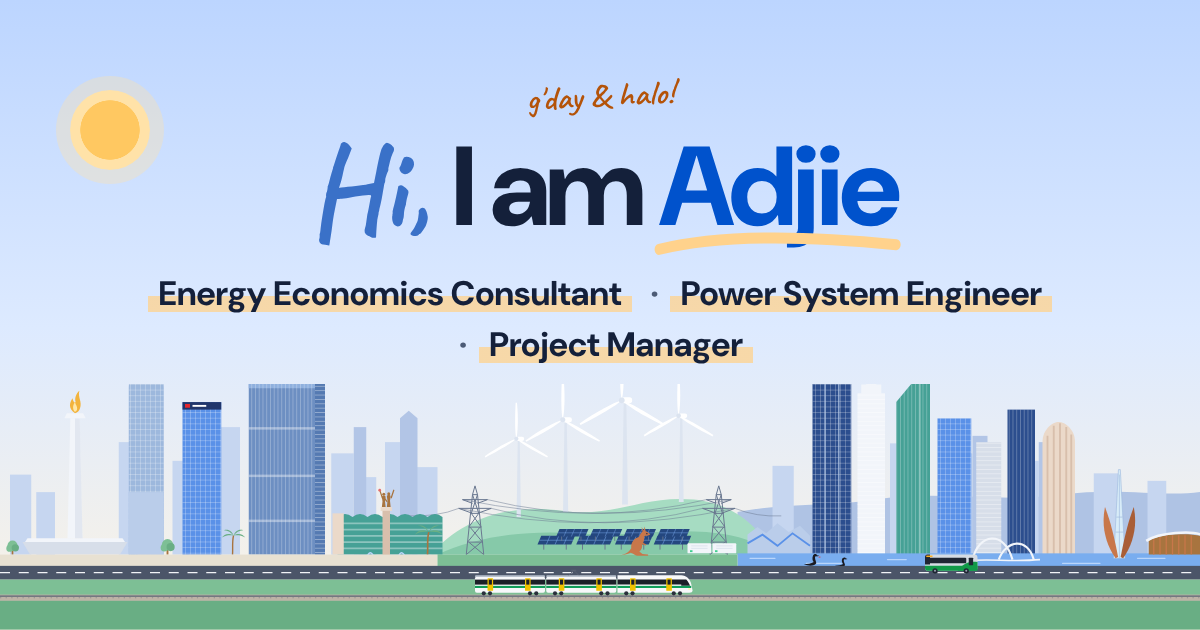
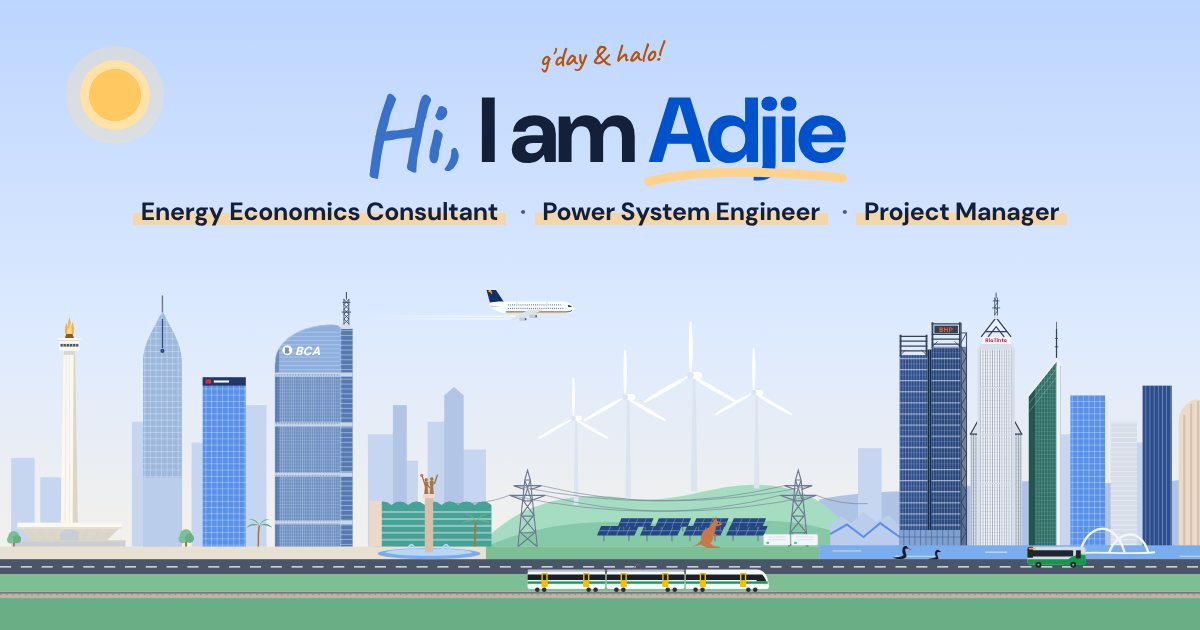
Draw the landmarks as they really are: Monas, Menara BCA, BHP Tower, Central Park, Palace Tower
Monas gets its flared cawan, fluted shaft, observation deck and gold flame.
Menara BCA gets the curved crown, louvred plant floors, east slice and lattice
mast. Brookfield Place's BHP Tower gets its twin slabs, ladder crowns, sign and
braced side frame; Central Park its pinstripes, braced setbacks, Rio Tinto band
and steel crown; the Palace Tower its green face, wedge top and mast. Each has
its own day and night colours. Shorter meta descriptions, a static check script,
and social images that show the crowns.

Claude-Session: https://claude.ai/code/session_01SutMWBYRtzb3hH5KejaEP3

diff --git a/index.html b/index.html
@@ -4,7 +4,7 @@
   <meta charset="utf-8">
   <meta name="viewport" content="width=device-width, initial-scale=1, viewport-fit=cover">
   <title>Adjie Brotosukmono: Energy Economics Consultant and Power System Engineer in Perth</title>
-  <meta name="description" content="Hi, I am Adjie Brotosukmono, an Indonesian energy economics consultant and power system engineer at Mott MacDonald in Perth, Western Australia. Read my story, my blog, and try the free tools I build.">
+  <meta name="description" content="Hi, I am Adjie Brotosukmono, an Indonesian energy economics consultant and power system engineer at Mott MacDonald in Perth. My story, my blog and free tools.">
   <meta name="author" content="Adjie Brotosukmono">
   <meta name="robots" content="index, follow, max-image-preview:large, max-snippet:-1">
   <link rel="canonical" href="https://www.adjiebrotots.com/">
@@ -73,6 +73,11 @@
       --mullion: rgba(255, 255, 255, .38);
       --lit: #FFD28C; --lit-on: 0; --star-on: 0; --sun-on: 1;
       --blade: #FFFFFF; --blade-2: #DCE4F0; --panel: #24477F; --panel-2: #7EAEF0; --pylon: #6A7890;
+      --mon: #FBF8F1; --mon-2: #DCD6C8; --mon-3: #C9CDD6; --mon-win: #4A5568; --cup: #8A5A24;
+      --bca-band: #C9D7EC; --bca-side: #4A6BA0;
+      --bhp: #2E4F8A; --bhp-2: #27467C; --bhp-slot: #172A4E; --bhp-band: rgba(222, 233, 250, .62); --bhp-lobby: #8FB0DE; --steel: #33415B; --bhp-sign: #F26B21;
+      --cp: #F3F5F9; --cp-2: #D8DEE8; --cp-pin: rgba(64, 84, 112, .42); --rio: #E4002B;
+      --pal: #2F6B64; --pal-2: #24564F; --pal-line: rgba(190, 236, 226, .35); --pal-clad: #EEF1F5;
       --shadow: 4px 4px 0 var(--line);
       --shadow-hover: 7px 7px 0 var(--line);
     }
@@ -96,6 +101,11 @@
         --mullion: rgba(141, 187, 255, .12);
         --lit-on: 1; --star-on: 1; --sun-on: 0;
         --blade: #C9D4E6; --blade-2: #8E9BB3; --panel: #18305A; --panel-2: #3A5F9A; --pylon: #6E7B96;
+        --mon: #D9DEE8; --mon-2: #A9B1C2; --mon-3: #39445C; --mon-win: #FFD28C; --cup: #6A4520;
+        --bca-band: #344C78; --bca-side: #1A2B4B;
+        --bhp: #1B2E55; --bhp-2: #172849; --bhp-slot: #0C162B; --bhp-band: rgba(141, 187, 255, .22); --bhp-lobby: #FFD28C; --steel: #5B6A86; --bhp-sign: #FF7A2E;
+        --cp: #3A4762; --cp-2: #2D384F; --cp-pin: rgba(10, 16, 30, .5); --rio: #FF4D6A;
+        --pal: #173B39; --pal-2: #122F2D; --pal-line: rgba(141, 220, 200, .16); --pal-clad: #46526B;
       }
     }
     :root[data-theme="dark"] {
@@ -116,6 +126,11 @@
       --mullion: rgba(141, 187, 255, .12);
       --lit-on: 1; --star-on: 1; --sun-on: 0;
       --blade: #C9D4E6; --blade-2: #8E9BB3; --panel: #18305A; --panel-2: #3A5F9A; --pylon: #6E7B96;
+      --mon: #D9DEE8; --mon-2: #A9B1C2; --mon-3: #39445C; --mon-win: #FFD28C; --cup: #6A4520;
+      --bca-band: #344C78; --bca-side: #1A2B4B;
+      --bhp: #1B2E55; --bhp-2: #172849; --bhp-slot: #0C162B; --bhp-band: rgba(141, 187, 255, .22); --bhp-lobby: #FFD28C; --steel: #5B6A86; --bhp-sign: #FF7A2E;
+      --cp: #3A4762; --cp-2: #2D384F; --cp-pin: rgba(10, 16, 30, .5); --rio: #FF4D6A;
+      --pal: #173B39; --pal-2: #122F2D; --pal-line: rgba(141, 220, 200, .16); --pal-clad: #46526B;
     }
 
     *, *::before, *::after { box-sizing: border-box; }
@@ -344,6 +359,10 @@
     .jet { transform-box: fill-box; transform-origin: 50% 100%; animation: jet 1.6s ease-in-out infinite alternate; }
     .jet:nth-of-type(2) { animation-delay: -.5s; } .jet:nth-of-type(3) { animation-delay: -1s; }
     @keyframes jet { from { transform: scaleY(.75); } to { transform: scaleY(1.08); } }
+    .f-mon { fill: var(--mon); } .f-mon2 { fill: var(--mon-2); } .f-mon3 { fill: var(--mon-3); }
+    .f-bhp { fill: var(--bhp); } .f-bhp2 { fill: var(--bhp-2); } .f-cp { fill: var(--cp); } .f-cp2 { fill: var(--cp-2); } .f-pal { fill: var(--pal); } .f-pal2 { fill: var(--pal-2); }
+    .s-steel { fill: none; stroke: var(--steel); stroke-linecap: square; }
+    .flame-glow { opacity: calc(var(--lit-on) * .55); }
     .blink { animation: blink 1.6s steps(1) infinite; opacity: var(--lit-on); }
     @keyframes blink { 50% { fill: transparent; } }
 
@@ -539,7 +558,7 @@
 
     <div class="scene-wrap" id="sceneWrap">
       <svg class="scene" viewBox="0 110 1920 490" preserveAspectRatio="xMidYMax slice" role="img" aria-labelledby="sceneTitle">
-        <title id="sceneTitle">Flat illustration of Jakarta, with Monas, Wisma 46, Menara BCA and the Selamat Datang monument, then wind and solar farms, then Perth, with Brookfield Place, Central Park, the Bell Tower, Elizabeth Quay Bridge and Optus Stadium. A Singapore Airlines A380 flies overhead while a Transperth C-series train and a Transperth bus pass below.</title>
+        <title id="sceneTitle">Flat illustration of Jakarta, with Monas, Wisma 46, Menara BCA and the Selamat Datang monument, then wind and solar farms, then Perth, with the BHP Tower at Brookfield Place, Central Park (the Rio Tinto tower), the Palace Tower, the Bell Tower, Elizabeth Quay Bridge and Optus Stadium. A Singapore Airlines A380 flies overhead while a Transperth C-series train and a Transperth bus pass below.</title>
         <defs>
           <pattern id="mullV" width="6" height="8" patternUnits="userSpaceOnUse"><rect x="0" y="0" width="1" height="8" class="f-mull"/></pattern>
           <pattern id="mullG" width="8" height="9" patternUnits="userSpaceOnUse"><rect x="0" y="0" width="1" height="9" class="f-mull"/><rect x="0" y="0" width="8" height="1" class="f-mull"/></pattern>
@@ -566,6 +585,15 @@
           <g id="panel"><path class="s-pylon" d="M10 0 V-10 M46 0 V-14"/><path class="f-panel" d="M0 -8 L54 -8 L60 -22 L6 -22 Z"/><path d="M14 -8 L20 -22 M28 -8 L34 -22 M42 -8 L48 -22 M3 -15 L57 -15" stroke="var(--panel-2)" stroke-width=".8" fill="none"/></g>
           <g id="tree"><rect x="-1.5" y="-10" width="3" height="10" class="f-bronze"/><circle cy="-16" r="9" class="f-grass"/><circle cx="-5" cy="-11" r="6" class="f-grass"/><circle cx="5" cy="-12" r="6.5" class="f-grass2"/></g>
           <g id="palm"><path d="M0 0 C 1 -12 -1 -24 2 -36" stroke="var(--bronze)" stroke-width="2.6" fill="none"/><path class="f-grass2" d="M2 -36 c -10 -6 -18 -2 -22 4 c 8 -5 15 -5 22 -4z M2 -36 c 10 -6 18 -2 22 4 c -8 -5 -15 -5 -22 -4z M2 -36 c -4 -10 -12 -12 -18 -10 c 8 0 13 4 18 10z M2 -36 c 4 -10 12 -12 18 -10 c -8 0 -13 4 -18 10z"/></g>
+          <pattern id="bcaV" width="3.2" height="4.6" patternUnits="userSpaceOnUse"><rect width=".7" height="4.6" class="f-mull"/><rect width="3.2" height=".45" class="f-mull"/></pattern>
+          <pattern id="bcaLouvre" width="4" height="5" patternUnits="userSpaceOnUse"><rect x="1" y="1.4" width="2" height="2.2" fill="var(--bca-side)" opacity=".55"/></pattern>
+          <pattern id="bhpG" width="4" height="16" patternUnits="userSpaceOnUse"><rect width=".8" height="16" class="f-mull"/><rect y="0" width="4" height="1.7" fill="var(--bhp-band)"/><rect y="8" width="4" height=".5" class="f-mull"/></pattern>
+          <pattern id="cpPin" width="3.4" height="5" patternUnits="userSpaceOnUse"><rect x="1.1" width="1.2" height="5" fill="var(--cp-pin)"/><rect y="4.4" width="3.4" height=".6" fill="var(--cp-pin)" opacity=".5"/></pattern>
+          <pattern id="palG" width="4" height="5.5" patternUnits="userSpaceOnUse"><rect width=".8" height="5.5" fill="var(--pal-line)"/><rect width="4" height=".5" fill="var(--pal-line)"/></pattern>
+          <pattern id="lights3" width="16" height="18" patternUnits="userSpaceOnUse"><rect x="1" y="2" width="2.4" height="3" class="f-lit"/><rect x="9" y="9" width="2.4" height="3" class="f-lit"/><rect x="5" y="14" width="2.4" height="3" class="f-lit"/><rect x="13" y="3" width="2.4" height="3" class="f-lit"/></pattern>
+          <clipPath id="clipBca"><path d="M396 480 V216 C 396 187 424 166 463 161 C 479 159 488 160 490 164 V480 Z"/></clipPath>
+          <clipPath id="clipPal"><path d="M1482 480 V262 L1522 212 L1528 219 V480 Z"/></clipPath>
+          <radialGradient id="flameGlow"><stop offset="0" stop-color="#FFC861" stop-opacity=".9"/><stop offset="1" stop-color="#FFC861" stop-opacity="0"/></radialGradient>
         </defs>
 
         <!-- Far: haze of both cities and the Darling Range -->
@@ -626,15 +654,28 @@
         </g>
 
         <!-- ═══ Jakarta ═══ -->
-        <!-- Monas -->
-        <g data-label="Monas, Jakarta's golden flame">
-          <path class="f-grey" d="M48 480 L192 480 L204 460 L36 460 Z"/>
-          <path class="f-white" d="M40 460 L200 460 L196 454 L44 454 Z"/>
-          <path class="f-white" d="M108 454 L132 454 L127.5 262 L112.5 262 Z"/>
-          <path class="f-grey" d="M120 454 L132 454 L127.5 262 L120 262 Z" opacity=".6"/>
-          <path class="f-white" d="M103 262 L137 262 L133 254 L107 254 Z"/>
-          <path class="f-flame" d="M120 254 C 108 246 112 236 116 230 C 117 236 120 238 121 236 C 119 230 122 222 127 218 C 124 228 132 236 128 246 C 127 250 124 253 120 254 Z"/>
-          <path d="M120 252 C 115 247 117 240 120 236 C 121 241 125 244 123 249 Z" fill="#FFE7A8"/>
+        <!-- Monas: the cawan (bowl) on its plinth, the tapering shaft, the observation deck and the gold flame -->
+        <g data-label="Monas, Jakarta's golden flame" transform="translate(100 480) scale(1.12) translate(-100 -480)">
+          <circle class="flame-glow" cx="100" cy="196" r="22" fill="url(#flameGlow)"/>
+          <rect x="28" y="472" width="144" height="8" class="f-mon3"/>
+          <rect x="28" y="472" width="144" height="1.4" class="f-mon2"/>
+          <path class="f-mon2" d="M52 472 L148 472 L164 456.5 L36 456.5 Z"/>
+          <path d="M58 472 L44 456.5 M70 472 L60 456.5 M82 472 L77 456.5 M94 472 L93 456.5 M106 472 L107 456.5 M118 472 L123 456.5 M130 472 L140 456.5 M142 472 L156 456.5" stroke="var(--mon-3)" stroke-width=".7" opacity=".8"/>
+          <path d="M88 472 V464 a12 6 0 0 1 24 0 V472 Z" class="f-mon3"/>
+          <rect x="33" y="449" width="134" height="7.5" class="f-mon"/>
+          <rect x="33" y="455" width="134" height="1.5" class="f-mon2"/>
+          <path class="f-mon" d="M89 449 L111 449 L107.6 233 L92.4 233 Z"/>
+          <path class="f-mon2" d="M104.2 449 L111 449 L107.6 233 L105.4 233 Z"/>
+          <path d="M94.6 449 L95.8 233 M100 449 V233" stroke="var(--mon-2)" stroke-width=".6" opacity=".9"/>
+          <rect x="93" y="228" width="14" height="5" class="f-mon2"/>
+          <rect x="87" y="215" width="26" height="13" class="f-mon"/>
+          <rect x="88.5" y="219.2" width="23" height="3.4" fill="var(--mon-win)"/>
+          <path d="M92 219.2 v3.4 M96 219.2 v3.4 M100 219.2 v3.4 M104 219.2 v3.4 M108 219.2 v3.4" stroke="var(--mon)" stroke-width=".8"/>
+          <rect x="85.5" y="211.5" width="29" height="3.6" class="f-mon"/>
+          <rect x="85.5" y="214.2" width="29" height="1" class="f-mon2"/>
+          <path d="M94.2 211.5 L105.8 211.5 L104 206.5 L96 206.5 Z" fill="var(--cup)"/>
+          <path class="f-flame" d="M94.6 206.5 C 93.6 200 94.8 195.6 96 191.6 C 96.9 194.4 97.5 196.4 98.5 197.6 C 97.9 192.4 99 187.8 100 184.4 C 101 188.2 102.4 192.2 101.9 197.4 C 102.9 195.8 103.6 193.4 104 190.8 C 105.6 195.2 106.5 200.4 105.4 206.5 Z"/>
+          <path d="M97.2 206 C 96.6 202 97.2 199.6 98 198.2 C 98.8 200.4 99.6 201.4 100 202 C 99.8 198.4 100.6 195 101.2 193 C 102.4 196.6 103.2 200.6 102.6 206 Z" fill="#FFE7A8" opacity=".85"/>
         </g>
         <!-- Wisma 46 -->
         <g data-label="Wisma 46, the fountain-pen tower">
@@ -652,18 +693,32 @@
           <rect x="292" y="236" width="62" height="12" fill="#21366B"/><rect x="296" y="239" width="8" height="6" fill="#E3262E"/><path d="M308 242 h22" stroke="#fff" stroke-width="3"/>
           <rect x="292" y="250" width="62" height="228" fill="url(#lights)" class="lit"/>
         </g>
-        <!-- Menara BCA -->
+        <!-- Menara BCA: curved glass crown, BCA logo, louvred plant floors, the slimmer east slice and its lattice mast -->
         <g data-label="Menara BCA, home of my banking chapter">
-          <path class="f-bca" d="M398 480 V202 C 398 178 426 160 462 155 C 486 152 500 156 504 166 V480 Z"/>
-          <path class="f-bcatop" d="M398 214 V202 C 398 178 426 160 462 155 C 486 152 500 156 504 166 V214 Z"/>
-          <path fill="url(#mullV)" d="M398 480 V202 C 398 178 426 160 462 155 C 486 152 500 156 504 166 V480 Z"/>
-          <rect x="504" y="164" width="16" height="316" class="f-bca2"/>
-          <rect x="504" y="164" width="16" height="316" fill="url(#mullH)"/>
-          <rect x="398" y="276" width="106" height="4" fill="var(--mullion)"/><rect x="398" y="352" width="106" height="4" fill="var(--mullion)"/><rect x="398" y="424" width="106" height="4" fill="var(--mullion)"/>
-          <path d="M511 164 V124 M515 164 V132 M509 150 h8 M509 140 h8" stroke="var(--pylon)" stroke-width="1.6"/>
-          <circle cx="418" cy="194" r="6" fill="#fff"/><path d="M415 191 h5 a2.6 2.6 0 0 1 0 5.2 h-5 z" fill="var(--g-bca)"/>
-          <text x="428" y="200" font-family="DM Sans, sans-serif" font-weight="800" font-style="italic" font-size="17" fill="#fff" letter-spacing=".5">BCA</text>
-          <rect x="398" y="220" width="106" height="258" fill="url(#lights)" class="lit"/>
+          <path class="f-bca" d="M396 480 V216 C 396 187 424 166 463 161 C 479 159 488 160 490 164 V480 Z"/>
+          <g clip-path="url(#clipBca)">
+            <rect x="396" y="150" width="94" height="80" class="f-bcatop"/>
+            <path d="M396 171 H490 M396 177 H490 M396 183 H490 M396 189 H490 M396 195 H490 M396 201 H490 M396 207 H490 M396 213 H490 M396 219 H490 M396 225 H490" stroke="var(--mullion)" stroke-width=".9"/>
+            <rect x="396" y="230" width="94" height="250" fill="url(#bcaV)"/>
+            <path d="M396 480 V216 C 396 200 398 191 402 184 V480 Z" fill="var(--bca-side)" opacity=".55"/>
+            <rect x="396" y="229" width="94" height="6" fill="var(--bca-band)"/><rect x="396" y="229" width="94" height="6" fill="url(#bcaLouvre)"/>
+            <rect x="396" y="301" width="94" height="6" fill="var(--bca-band)"/><rect x="396" y="301" width="94" height="6" fill="url(#bcaLouvre)"/>
+            <rect x="396" y="373" width="94" height="6" fill="var(--bca-band)"/><rect x="396" y="373" width="94" height="6" fill="url(#bcaLouvre)"/>
+            <rect x="396" y="442" width="94" height="6" fill="var(--bca-band)"/><rect x="396" y="442" width="94" height="6" fill="url(#bcaLouvre)"/>
+            <rect x="396" y="236" width="94" height="204" fill="url(#lights3)" class="lit"/>
+          </g>
+          <path d="M396 216 C 396 187 424 166 463 161 C 479 159 488 160 490 164" fill="none" stroke="var(--mullion)" stroke-width="1.6"/>
+          <rect x="490" y="166" width="18" height="314" class="f-bca2"/>
+          <rect x="490" y="166" width="18" height="314" fill="url(#mullH)"/>
+          <rect x="490" y="166" width="1.6" height="314" fill="var(--mullion)"/>
+          <rect x="490" y="229" width="18" height="6" fill="var(--bca-band)"/><rect x="490" y="301" width="18" height="6" fill="var(--bca-band)"/><rect x="490" y="373" width="18" height="6" fill="var(--bca-band)"/><rect x="490" y="442" width="18" height="6" fill="var(--bca-band)"/>
+          <rect x="492" y="159" width="14" height="7" fill="var(--grey-b)"/>
+          <path class="s-steel" stroke-width="1.2" d="M495.5 159 V124 M502.5 159 V124 M495.5 159 L502.5 152 L495.5 145 L502.5 138 L495.5 131 L502.5 124 M502.5 159 L495.5 152 L502.5 145 L495.5 138 L502.5 131 L495.5 124 M493 142 H505 M494 128 H504"/>
+          <path d="M499 124 V113" stroke="var(--steel)" stroke-width="1.4"/>
+          <circle class="blink" cx="499" cy="113" r="1.6" fill="#FF5A5A"/>
+          <circle cx="414" cy="197" r="7.2" fill="#fff"/>
+          <path d="M410.6 193 h4.4 a2.4 2.4 0 0 1 0 4.4 h-1.6 h2.2 a2.4 2.4 0 0 1 0 4.4 h-5 z" fill="var(--g-bca)"/>
+          <text x="425" y="203.6" font-family="DM Sans, sans-serif" font-weight="800" font-style="italic" font-size="17" fill="#fff" letter-spacing=".4">BCA</text>
         </g>
         <!-- Hotel Indonesia Kempinski and Bundaran HI -->
         <g data-label="Hotel Indonesia Kempinski">
@@ -679,39 +734,81 @@
           <path class="f-pale2" d="M1196 480 V448 L1212 436 L1226 446 L1244 430 L1262 444 L1280 434 L1296 450 V480 Z"/>
           <path d="M1196 462 L1220 448 L1244 466 L1268 446 L1296 466" stroke="var(--g-blue)" stroke-width="3" fill="none"/>
         </g>
-        <g data-label="Brookfield Place">
-          <rect x="1300" y="194" width="62" height="286" class="f-dark"/>
-          <rect x="1300" y="194" width="62" height="286" fill="url(#mullG)"/>
-          <path d="M1302 194 V162 M1360 194 V162 M1300 164 H1362" stroke="var(--g-dark)" stroke-width="5"/>
-          <path d="M1320 194 V480 M1342 194 V480" stroke="var(--g-pale-2)" stroke-width="2.4" opacity=".7"/>
-          <rect x="1300" y="210" width="62" height="268" fill="url(#lights)" class="lit"/>
+        <!-- BHP Tower, Brookfield Place: twin glass slabs split by a slot, an open steel ladder crown on each, the BHP sign, and the braced side frame -->
+        <g data-label="BHP Tower at Brookfield Place">
+          <rect x="1296" y="204" width="40" height="276" class="f-bhp"/>
+          <rect x="1342" y="192" width="42" height="288" class="f-bhp2"/>
+          <rect x="1336" y="196" width="6" height="284" fill="var(--bhp-slot)"/>
+          <path d="M1339 196 V480" stroke="var(--bhp-band)" stroke-width=".7"/>
+          <rect x="1296" y="204" width="40" height="252" fill="url(#bhpG)"/>
+          <rect x="1342" y="192" width="42" height="264" fill="url(#bhpG)"/>
+          <rect x="1296" y="456" width="88" height="24" fill="var(--bhp-lobby)" opacity=".85"/>
+          <path d="M1302 456 V480 M1310 456 V480 M1318 456 V480 M1326 456 V480 M1334 456 V480 M1342 456 V480 M1350 456 V480 M1358 456 V480 M1366 456 V480 M1374 456 V480 M1296 466 H1384" stroke="var(--bhp-2)" stroke-width=".9" opacity=".7"/>
+          <rect x="1296" y="214" width="40" height="240" fill="url(#lights3)" class="lit"/>
+          <rect x="1342" y="202" width="42" height="252" fill="url(#lights3)" class="lit"/>
+          <path class="s-steel" stroke-width="2.6" d="M1297.3 204 V176 M1334.7 204 V176 M1343.3 192 V158 M1382.7 192 V158"/>
+          <path class="s-steel" stroke-width="1.8" d="M1297 177 H1335 M1297 184 H1335 M1297 191 H1335 M1297 198 H1335 M1343 159 H1383 M1343 174 H1383 M1343 181 H1383 M1343 188 H1383"/>
+          <path class="s-steel" stroke-width="1.2" d="M1297 204 L1304 197 M1335 204 L1328 197 M1343 192 L1350 185 M1383 192 L1376 185"/>
+          <rect x="1346" y="161.5" width="34" height="11" fill="var(--steel)"/>
+          <text x="1363" y="170.6" text-anchor="middle" font-family="DM Sans, sans-serif" font-weight="800" font-size="9.4" fill="var(--bhp-sign)" letter-spacing=".6">BHP</text>
+          <rect x="1384" y="192" width="9" height="288" fill="var(--bhp-slot)" opacity=".55"/>
+          <path class="s-steel" stroke-width="1.3" d="M1384.6 158 V480 M1392.4 172 V480 M1384.6 192 L1392.4 206 L1384.6 220 L1392.4 234 L1384.6 248 L1392.4 262 L1384.6 276 L1392.4 290 L1384.6 304 L1392.4 318 L1384.6 332 L1392.4 346 L1384.6 360 L1392.4 374 L1384.6 388 L1392.4 402 L1384.6 416 L1392.4 430 L1384.6 444 L1392.4 458 L1384.6 472 M1384.6 172 L1392.4 172 L1384.6 186"/>
         </g>
-        <g data-label="Central Park, Perth's tallest">
-          <path class="f-white" d="M1372 480 V222 H1378 V208 H1386 V196 H1402 V208 H1410 V222 H1416 V480 Z"/>
-          <path fill="url(#mullH)" d="M1372 480 V222 H1416 V480 Z"/>
-          <path d="M1394 196 V142" stroke="var(--pylon)" stroke-width="2.4"/><path d="M1391 172 h6 M1391 160 h6" stroke="var(--pylon)" stroke-width="1.4"/>
-          <rect x="1372" y="230" width="44" height="248" fill="url(#lights2)" class="lit"/>
+        <!-- Central Park, the Rio Tinto tower: pinstriped white shaft, braced setbacks, chamfered crown with the Rio Tinto band, open steel crown and mast -->
+        <g data-label="Central Park, the Rio Tinto tower and Perth's tallest">
+          <rect x="1398" y="318" width="74" height="162" class="f-cp2"/>
+          <rect x="1398" y="318" width="74" height="162" fill="url(#cpPin)"/>
+          <path class="f-cp2" d="M1398 318 L1408 300 V318 Z M1472 318 L1462 300 V318 Z"/>
+          <path class="s-steel" stroke-width="1.8" d="M1398 318 L1408 300 M1472 318 L1462 300 M1398 318 H1408 M1462 318 H1472"/>
+          <rect x="1408" y="196" width="54" height="284" class="f-cp"/>
+          <rect x="1408" y="196" width="54" height="284" fill="url(#cpPin)"/>
+          <rect x="1408" y="196" width="4" height="284" class="f-cp2"/>
+          <rect x="1458" y="196" width="4" height="284" class="f-cp2"/>
+          <rect x="1440" y="196" width="22" height="284" fill="var(--cp-2)" opacity=".35"/>
+          <rect x="1408" y="250" width="54" height="1.6" class="f-cp2"/><rect x="1408" y="318" width="54" height="1.6" class="f-cp2"/><rect x="1408" y="388" width="54" height="1.6" class="f-cp2"/>
+          <rect x="1413" y="206" width="44" height="270" fill="url(#lights3)" class="lit"/>
+          <path class="f-cp2" d="M1408 196 L1414 188 L1456 188 L1462 196 Z"/>
+          <rect x="1414" y="177" width="42" height="11" class="f-cp"/>
+          <text x="1435" y="185.4" text-anchor="middle" font-family="DM Sans, sans-serif" font-weight="800" font-size="7.4" fill="var(--rio)" letter-spacing=".1">RioTinto</text>
+          <rect x="1420" y="170" width="30" height="7" class="f-cp2"/>
+          <path d="M1414 177 L1435 150 L1456 177 Z" fill="var(--cp)" opacity=".55"/>
+          <path class="s-steel" stroke-width="1.8" d="M1414 177 L1435 150 L1456 177 M1424 177 L1435 163 L1446 177 M1420 170 H1450"/>
+          <rect x="1431.5" y="146" width="7" height="6" class="f-cp2"/>
+          <path class="s-steel" stroke-width="1.1" d="M1433 146 V122 M1437 146 V122 M1433 146 L1437 140 L1433 134 L1437 128 L1433 122 M1430 136 H1440 M1431 126 H1439"/>
+          <path d="M1435 122 V114" stroke="var(--steel)" stroke-width="1.2"/>
+          <circle class="blink" cx="1435" cy="114" r="1.6" fill="#FF5A5A"/>
         </g>
-        <g data-label="108 St Georges Terrace">
-          <path class="f-teal" d="M1434 480 V236 L1472 190 L1488 206 V480 Z"/>
-          <path fill="url(#mullV)" d="M1434 480 V236 L1472 190 L1488 206 V480 Z"/>
-          <path d="M1472 190 V480" stroke="var(--mullion)" stroke-width="2"/>
-          <path d="M1472 190 V164" stroke="var(--pylon)" stroke-width="2"/>
-          <rect x="1434" y="250" width="54" height="228" fill="url(#lights)" class="lit"/>
+        <!-- The Palace Tower, 108 St Georges Terrace: dark green glass face, white cladding at the corner, the wedge top and its mast -->
+        <g data-label="The Palace Tower, 108 St Georges Terrace">
+          <path class="f-pal" d="M1482 480 V262 L1522 212 L1528 219 V480 Z"/>
+          <g clip-path="url(#clipPal)">
+            <rect x="1482" y="200" width="46" height="280" fill="url(#palG)"/>
+            <rect x="1482" y="200" width="9" height="280" class="f-pal2"/>
+            <path d="M1482 274 L1522 224 M1482 286 L1522 236" stroke="var(--pal-line)" stroke-width="1.2"/>
+            <rect x="1491" y="268" width="31" height="210" fill="url(#lights3)" class="lit"/>
+          </g>
+          <rect x="1522" y="212" width="6" height="268" fill="var(--pal-clad)"/>
+          <path d="M1522 220 V480" stroke="var(--cp-2)" stroke-width=".8"/>
+          <path d="M1481 263 L1522 211.5 L1528.5 219" fill="none" stroke="var(--pal-clad)" stroke-width="2.6" stroke-linejoin="round"/>
+          <path d="M1518.5 214 l3.5 -6 l3.5 6 z" fill="var(--pal-clad)"/>
+          <path d="M1522 208 V166" stroke="var(--steel)" stroke-width="1.8"/>
+          <path d="M1519.5 192 h5 M1520 180 h4" stroke="var(--steel)" stroke-width="1.2"/>
+          <path d="M1522 166 V156" stroke="var(--steel)" stroke-width="1"/>
+          <circle class="blink" cx="1522" cy="156" r="1.5" fill="#FF5A5A"/>
         </g>
         <g data-label="Capital Square">
-          <rect x="1500" y="262" width="54" height="218" class="f-blue"/><rect x="1500" y="262" width="54" height="218" fill="url(#mullG)"/>
-          <rect x="1500" y="270" width="54" height="208" fill="url(#lights2)" class="lit"/>
+          <rect x="1542" y="262" width="50" height="218" class="f-blue"/><rect x="1542" y="262" width="50" height="218" fill="url(#mullG)"/>
+          <rect x="1542" y="270" width="50" height="208" fill="url(#lights2)" class="lit"/>
         </g>
         <g>
-          <rect x="1562" y="300" width="40" height="180" class="f-grey"/><rect x="1562" y="300" width="40" height="180" fill="url(#mullH)"/>
-          <rect x="1612" y="248" width="44" height="232" class="f-dark"/><rect x="1612" y="248" width="44" height="232" fill="url(#mullV)"/>
-          <rect x="1612" y="258" width="44" height="220" fill="url(#lights)" class="lit"/>
+          <rect x="1600" y="300" width="38" height="180" class="f-grey"/><rect x="1600" y="300" width="38" height="180" fill="url(#mullH)"/>
+          <rect x="1646" y="248" width="42" height="232" class="f-dark"/><rect x="1646" y="248" width="42" height="232" fill="url(#mullV)"/>
+          <rect x="1646" y="258" width="42" height="220" fill="url(#lights)" class="lit"/>
         </g>
         <g data-label="The Ritz-Carlton tower at Elizabeth Quay">
-          <path class="f-cream" d="M1668 480 V300 C 1668 280 1684 268 1694 268 C 1704 268 1720 280 1720 300 V480 Z"/>
-          <path d="M1676 290 V480 M1686 274 V480 M1696 270 V480 M1706 276 V480 M1714 288 V480" stroke="var(--cream-2)" stroke-width="3"/>
-          <rect x="1668" y="300" width="52" height="178" fill="url(#lights2)" class="lit"/>
+          <path class="f-cream" d="M1698 480 V300 C 1698 280 1714 268 1724 268 C 1734 268 1750 280 1750 300 V480 Z"/>
+          <path d="M1706 290 V480 M1716 274 V480 M1726 270 V480 M1736 276 V480 M1744 288 V480" stroke="var(--cream-2)" stroke-width="3"/>
+          <rect x="1698" y="300" width="52" height="178" fill="url(#lights2)" class="lit"/>
         </g>
         <!-- The Swan River in front of the city -->
         <rect x="1180" y="478" width="740" height="26" class="f-water"/>

diff --git a/about/index.html b/about/index.html
@@ -4,7 +4,7 @@
   <meta charset="utf-8">
   <meta name="viewport" content="width=device-width, initial-scale=1, viewport-fit=cover">
   <title>About Adjie Brotosukmono: from Bandung to Perth</title>
-  <meta name="description" content="Adjie Brotosukmono is an Indonesian energy economics consultant and power system engineer at Mott MacDonald in Perth. The story so far: ITB, teaching online, banking at BCA, Merz Consulting, and Perth.">
+  <meta name="description" content="Adjie Brotosukmono is an energy economics consultant and power system engineer at Mott MacDonald in Perth. The story so far: ITB, edtech, BCA, Merz, Perth.">
   <meta name="author" content="Adjie Brotosukmono">
   <meta name="robots" content="index, follow, max-image-preview:large, max-snippet:-1">
   <link rel="canonical" href="https://www.adjiebrotots.com/about/">
